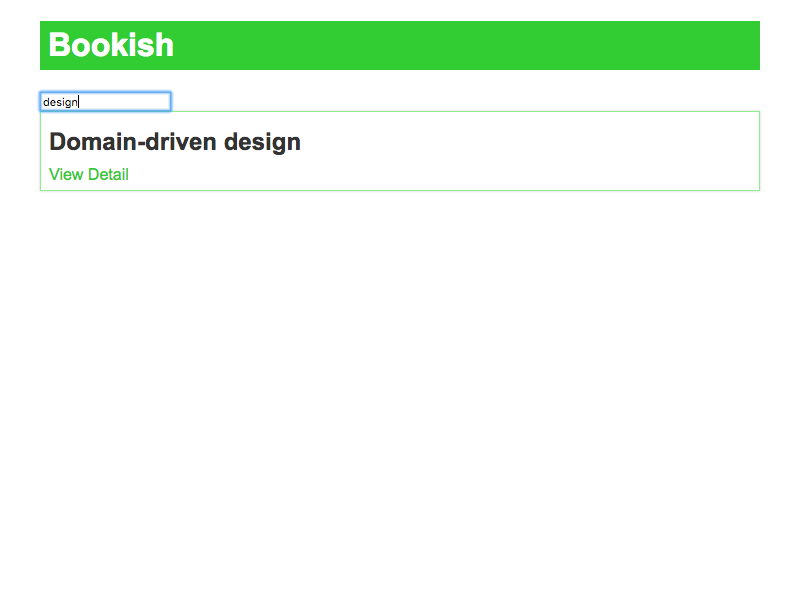
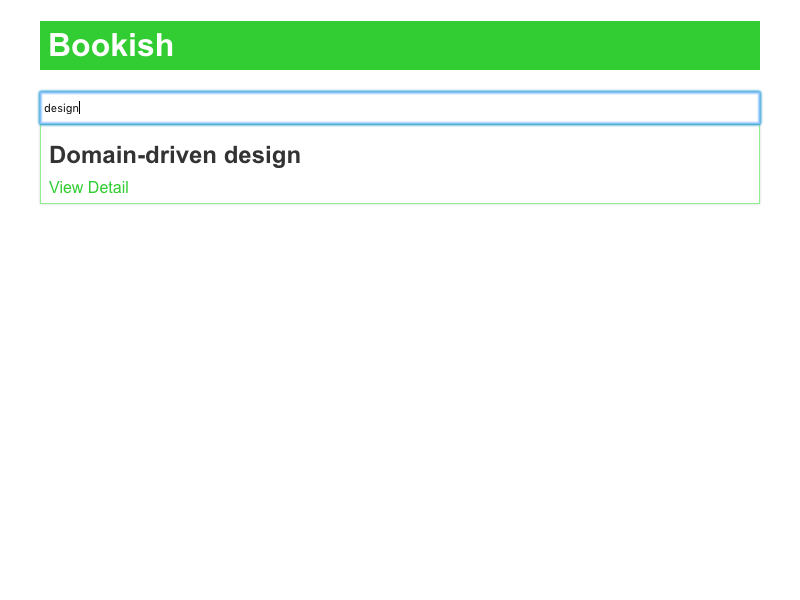
styling the searching box

Changed region(s): [[0.0312, 0.15, 0.9688, 0.33], [0.0625, 0.06, 0.2188, 0.09]]

diff --git a/src/containers/BookListContainer.js b/src/containers/BookListContainer.js
@@ -1,7 +1,7 @@
 import React, { Component } from 'react';
 
 import axios from 'axios'
-import SearchBox from './SearchBox'
+import SearchBox from '../components/SearchBox/index'
 import BookList from '../components/BookList/index'
 
 class BookListContainer extends Component {

diff --git a/src/components/SearchBox/index.test.js b/src/components/SearchBox/index.test.js
@@ -1,6 +1,6 @@
 import React from 'react'
 import {shallow} from 'enzyme'
-import SearchBox from './SearchBox'
+import SearchBox from './index'
 
 describe('SearchBox', () => {
   it('Handle searching', () => {

diff --git a/src/components/SearchBox/index.js b/src/components/SearchBox/index.js
@@ -1,4 +1,5 @@
 import React from 'react'
+import './index.css'
 
 function SearchBox({term, onChange}) {
   return (<input type="text" className="search" placeholder="Type to search" onChange={onChange}

diff --git a/src/components/SearchBox/index.css b/src/components/SearchBox/index.css
@@ -1,0 +1,9 @@
+.search {
+    box-sizing: border-box;
+    width: 100%;
+    padding: 2px 4px;
+    height: 32px;
+    box-shadow: 0 0 3px limegreen;
+    border: none;
+    margin-bottom: 10px;
+}

diff --git a/src/index.css b/src/index.css
@@ -3,3 +3,8 @@ body {
   padding: 0;
   font-family: sans-serif;
 }
+
+* {
+  -webkit-font-smoothing: antialiased;
+  -moz-osx-font-smoothing: grayscale;
+}
